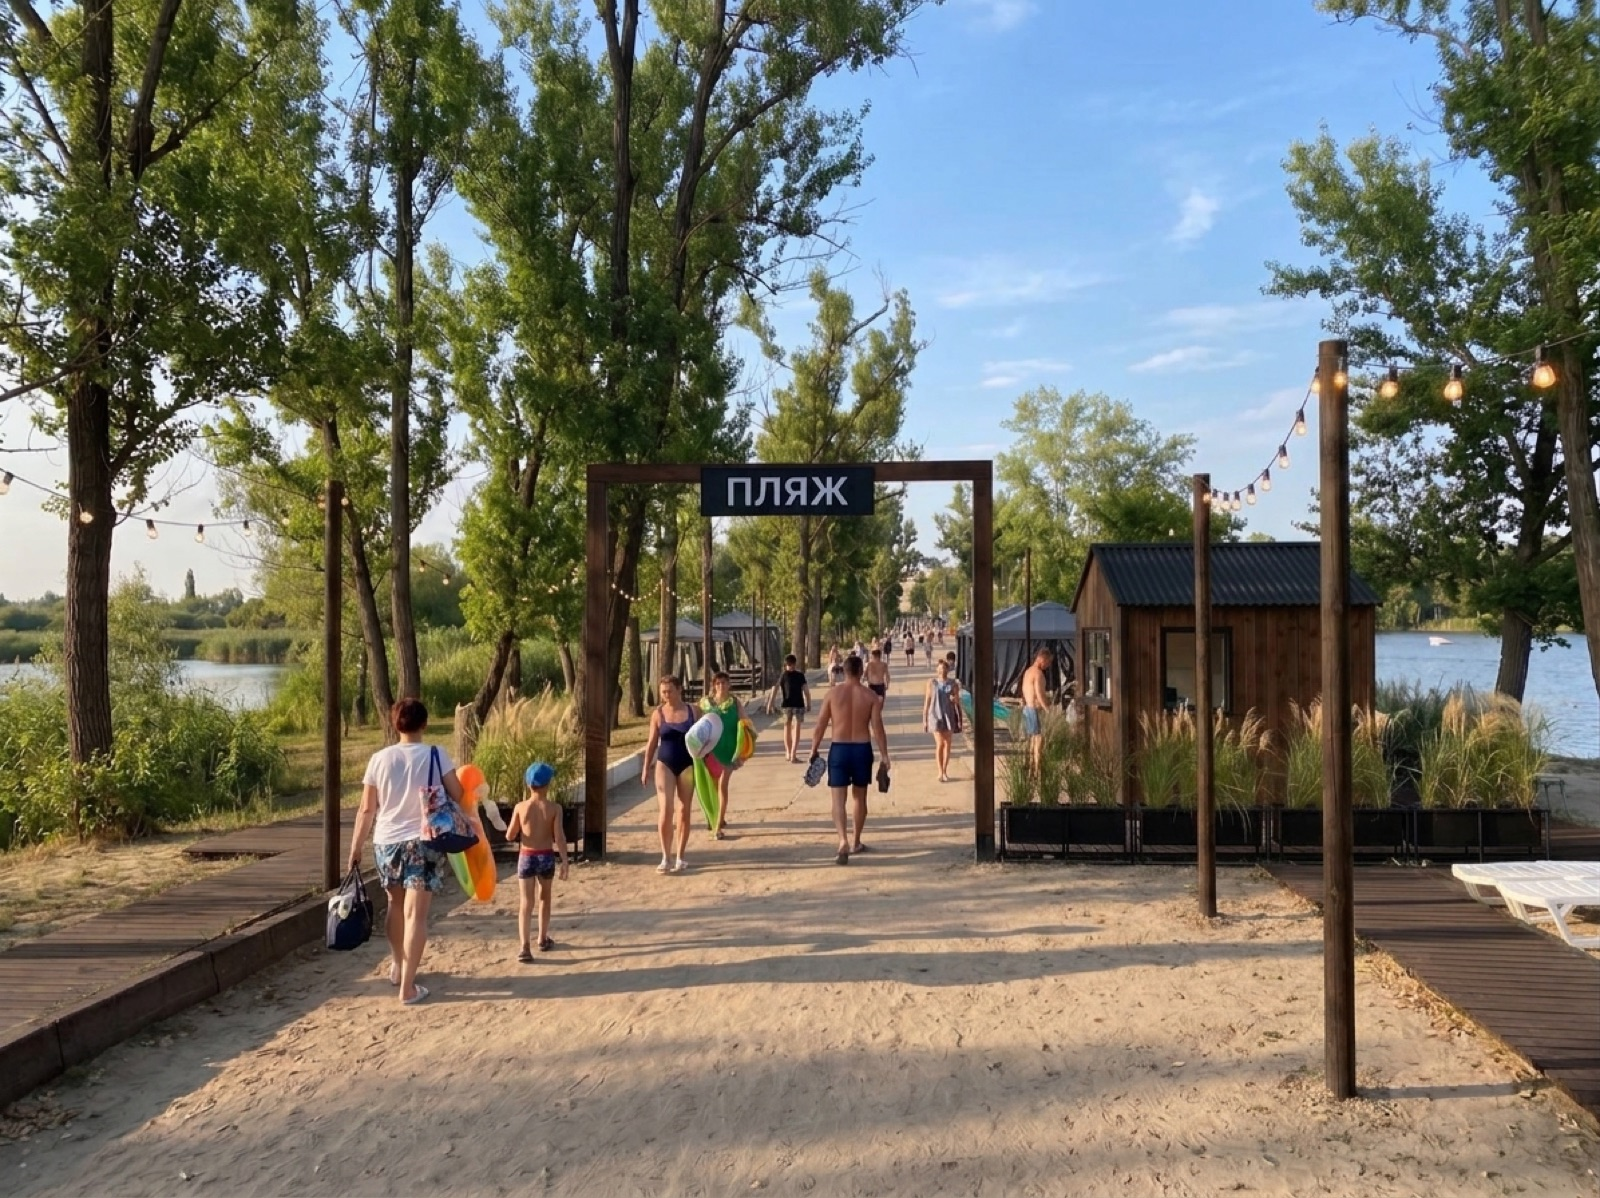
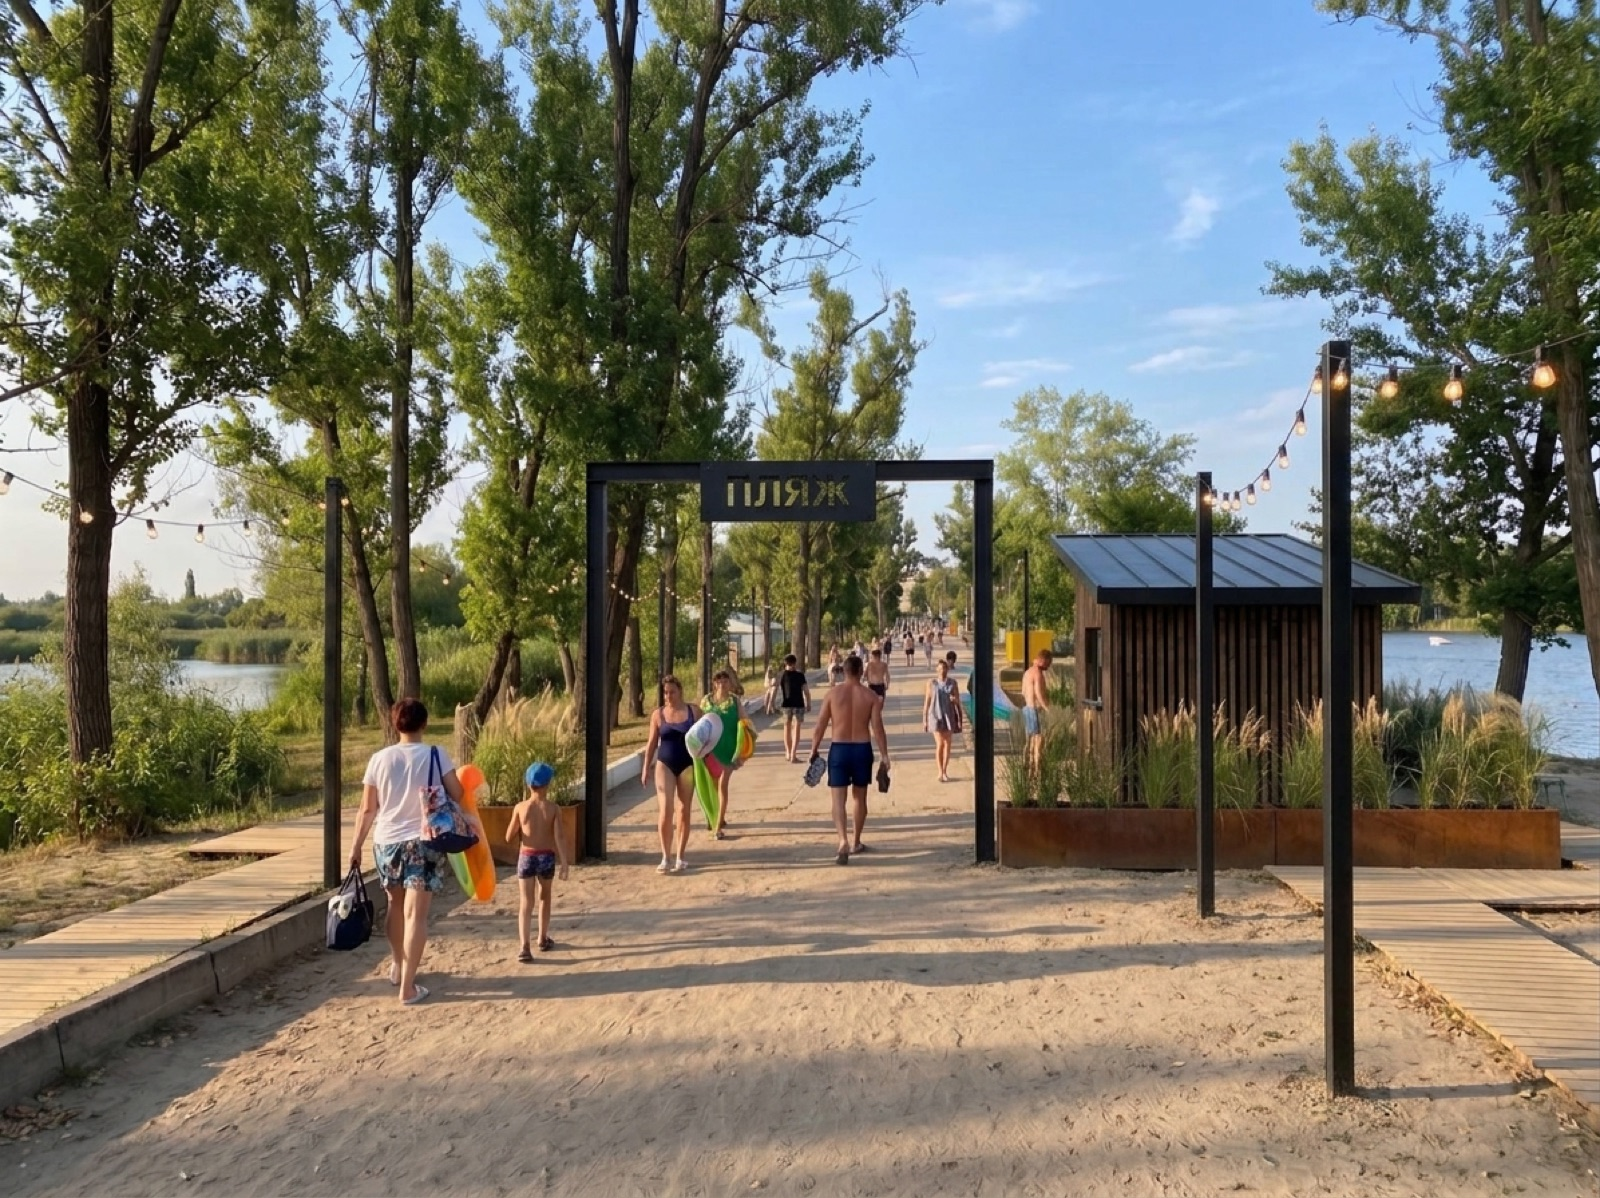
Пляж Основа: стиль «Лофт» перероблено (інша архітектура, не лише колір), описи стилів з розділом «Архітектура»

Changed region(s): [[0.2812, 0.278, 1.0, 0.9265], [0.0, 0.5868, 0.25, 0.9265], [0.1875, 0.4015, 0.2188, 0.5559]]

diff --git a/plyazh/proekt/index.html b/plyazh/proekt/index.html
@@ -528,7 +528,7 @@ body.cine-on #model,body.cine-on main,body.cine-on .wrap{transform:none !importa
       <div class="kicker">05 · Стиль</div>
       <h2 id="styleTitle">Горіх і графіт: виглядає дорожче, ніж коштує</h2>
       <p class="hint">Один стиль на всю територію, щоб місце читалось як єдине. Бюджет середній: прості матеріали, зібрані в один стиль, щоб виглядало охайно й дорожче, ніж коштує. Наша пропозиція позначена. Натисніть інший стиль: зміниться опис, палітра, 3D-модель вище і всі фото «Один день на пляжі» нижче.</p>
-      <div class="chips" id="styleChips"><button type="button" class="chip on" data-style="light">Горіх і графіт (пропозиція)</button><button type="button" class="chip" data-style="dark">Темне дерево і метал</button><button type="button" class="chip" data-style="red">Червоні дахи</button><button type="button" class="chip" data-style="log">Світлий зруб</button><button type="button" class="chip" data-style="white">Білий середземноморський</button><button type="button" class="chip" data-style="boho">Бохо</button></div>
+      <div class="chips" id="styleChips"><button type="button" class="chip on" data-style="light">Горіх і графіт (пропозиція)</button><button type="button" class="chip" data-style="dark">Лофт: темне дерево і метал</button><button type="button" class="chip" data-style="red">Хутір: червоні дахи</button><button type="button" class="chip" data-style="log">Карпатський зруб</button><button type="button" class="chip" data-style="white">Середземномор'я</button><button type="button" class="chip" data-style="boho">Бохо</button></div>
       <div class="swatches" id="styleSw"></div>
       <div class="grid2" id="styleCards"></div>
     </section>
@@ -766,22 +766,22 @@ document.querySelectorAll(".ba").forEach(el=>{
   el.addEventListener("pointerup",()=>on=false);el.addEventListener("pointercancel",()=>on=false);
 });
 </script>
-<script>window.STYLE_HAS={dark:['story'],red:['story']};</script>
+<script>window.STYLE_HAS={dark:['story']};</script>
 <script>
 (function(){
 var S={
- light:{sw:['#a8743f','#b98a55','#3b3f44','#f4f4f2','#2b2622'],m:'Наша пропозиція для беседок у межах середнього бюджету: та сама конструкція, що на вашому фото (брус з розкосами, борти, двосхилий дах), але каркас тонований під горіх, борти з горизонтальної дошки замість чорних панелей, дах з матового графітового профнастилу замість червоного. Виглядає дорожче, коштує так само.',t:'Білі пластикові лежаки і прості бежеві парасолі. Текстиль лише там, де видно: штори у VIP, подушки на лавах.',l:'Звичайні вуличні гірлянди з теплими лампами під дахами беседок і між деревами, кілька ліхтарів на сонячних батареях.',f:'Без парканів: кадки з травами, канат на дерев\'яних стовпчиках.'},
- dark:{sw:['#5a3e2b','#3b2a1f','#d9d4cc','#1c1c1e','#2a2a30'],m:'Темний горіх або морений дуб, чорний метал на каркасах і перилах, терасна дошка темного кольору.',t:'Сірий і графітовий льон, темні подушки з контрастним кантом.',l:'Точкові світильники, тепле світло з металевих ліхтарів.',f:'Низькі металеві огорожі з канатом, кадки з чорного металу.'},
- red:{sw:['#9c3b2b','#c9a373','#efe6d6','#5b4a3a','#8a2e22'],m:'Дерев\'яні каркаси, дахи альтанок і бару з червоного профнастилу або черепиці, як альтанки на набережній.',t:'Світлі тканини з теракотовими акцентами.',l:'Гірлянди під дахами, ліхтарі біля входів.',f:'Дерев\'яні стовпчики з канатом, клумби.'},
- log:{sw:['#e4c79a','#c99e64','#f3ead9','#6b4e2e','#a9784a'],m:'Світлий оциліндрований зруб для будиночків, бару і кабінок, як справжня база відпочинку.',t:'Лляні штори, пледи в клітинку, природні кольори.',l:'Ліхтарі на стовпах, гірлянди по фасадах зрубів.',f:'Дерев\'яний штахетник низький, кадки з хвоєю.'},
- white:{sw:['#ffffff','#eef3f6','#2f6f86','#c9a373','#9fc3d1'],m:'Білені дерев\'яні каркаси, біла фарбована дошка, сині акценти, як на Середземному морі.',t:'Білий льон, сині смужки, подушки в морському стилі.',l:'Білі гірлянди, ліхтарики у скляних банках.',f:'Білі кадки з лавандою й оливами.'},
- boho:{sw:['#d9b98e','#b5855a','#f2e6d0','#7a5a3a','#c97b50'],m:'Ротанг, бамбук, плетені абажури, світле дерево, багато текстур.',t:'Макраме, бахрома, подушки з орнаментом, килимки на піску.',l:'Плетені абажури, гірлянди-кульки, свічки в ліхтарях.',f:'Пампасна трава, кашпо з макраме, канати.'}
+ light:{sw:['#a8743f','#b98a55','#3b3f44','#f4f4f2','#2b2622'],m:'Наша пропозиція для беседок у межах середнього бюджету: та сама конструкція, що на вашому фото (брус з розкосами, борти, двосхилий дах), але каркас тонований під горіх, борти з горизонтальної дошки замість чорних панелей, дах з матового графітового профнастилу замість червоного. Виглядає дорожче, коштує так само.',t:'Білі пластикові лежаки і прості бежеві парасолі. Текстиль лише там, де видно: штори у VIP, подушки на лавах.',l:'Звичайні вуличні гірлянди з теплими лампами під дахами беседок і між деревами, кілька ліхтарів на сонячних батареях.',f:'Без парканів: кадки з травами, канат на дерев\'яних стовпчиках.',a:'Двосхилі дахи з графітового профнастилу, каркас з бруса з розкосами, борти з горизонтальної дошки.'},
+ dark:{sw:['#5a3e2b','#3b2a1f','#d9d4cc','#1c1c1e','#2a2a30'],m:'Чорний метал, морений дуб, вертикальні ламелі, кадки з кортен-сталі.',t:'Графітові квадратні парасолі, сірий брезент, темні подушки.',l:'Лампи Едісона на тросах, чорні сталеві ліхтарі.',f:'Сітка в чорній сталевій рамі, кадки з іржавої кортен-сталі зі злаками.',a:'Лофт: плоскі односхилі дахи з чорного металу, квадратні сталеві стійки без розкосів, вертикальні ламелі з проміжками.'},
+ red:{sw:['#9c3b2b','#c9a373','#efe6d6','#5b4a3a','#8a2e22'],m:'Світла сосна, червоний профнастил, білі різьблені лиштви.',t:'Червоно-білі смугасті парасолі з бахромою, лляні скатертини.',l:'Білі емальовані «хуторські» лампи, гірлянди.',f:'Низький білий штахетник, діжки з соняшниками.',a:'Хутір: високі двосхилі червоні дахи з білими лобовими дошками, світла соснова дошка, низький білий штахетник.'},
+ log:{sw:['#e4c79a','#c99e64','#f3ead9','#6b4e2e','#a9784a'],m:'Оциліндрована колода, гонт, грубі дошки столів і лав.',t:'Натуральний льон, пледи в клітинку.',l:'Ковані чорні ліхтарі, гірлянди під стріхою.',f:'Різьблені балясини, діжки з ялинками.',a:'Карпатський зруб: стіни з колод з перехрещеними кутами, круті A-подібні дахи з гонту, різьблені балясини.'},
+ white:{sw:['#ffffff','#eef3f6','#2f6f86','#c9a373','#9fc3d1'],m:'Біла штукатурка, сині дерев\'яні двері й віконниці, очеретяна пергола.',t:'Біло-сині смугасті тенти й парасолі.',l:'Білі ліхтарики, гірлянди над перголою.',f:'Білі канати на білих стовпчиках, теракотові горщики з оливами й лавандою.',a:'Середземномор\'я: білі тиньковані стіни з арками, плоскі дахи з очеретяною перголою, сині двері й віконниці.'},
+ boho:{sw:['#d9b98e','#b5855a','#f2e6d0','#7a5a3a','#c97b50'],m:'Світлі жердини, солома й очерет, ротанг.',t:'Кремова тканина з бахромою, макраме, килимки на настилах.',l:'Плетені абажури, гірлянди-кульки, свічки в ліхтарях.',f:'Джутові канати, пампасна трава в плетених кошиках.',a:'Бохо: солом\'яні та очеретяні дахи й парасолі-«палапа», каркас зі світлих жердин, макраме і плетені лампи.'}
 };
 var chips=document.querySelectorAll('#styleChips .chip'),sw=document.getElementById('styleSw'),cards=document.getElementById('styleCards');
 function show(k){var d=S[k];document.querySelectorAll('#styleChips .chip,#vizChips .chip').forEach(function(c){c.classList.toggle('on',c.dataset.style===k);}); var pal=document.querySelector('#viz .palette');if(pal)pal.style.display=k==='light'?'':'none';
  chips.forEach(function(c){if(c.dataset.style===k)document.getElementById('styleTitle').textContent=k==='light'?'Горіх і графіт: виглядає дорожче, ніж коштує':c.textContent;});
  sw.innerHTML=d.sw.map(function(c){return '<i style="background:'+c+'"></i>'}).join('');
- cards.innerHTML=[['Матеріали',d.m],['Тканини',d.t],['Вечірнє світло',d.l],['Огорожа',d.f]].map(function(x){return '<div class="card"><b>'+x[0]+'</b><p>'+x[1]+'</p></div>'}).join('');
+ cards.innerHTML=[['Архітектура',d.a],['Матеріали',d.m],['Тканини',d.t],['Вечірнє світло',d.l],['Огорожа',d.f]].map(function(x){return '<div class="card"><b>'+x[0]+'</b><p>'+x[1]+'</p></div>'}).join('');
  window.dispatchEvent(new CustomEvent('beachstyle',{detail:{style:k,sw:d.sw}}));
  var HAS=window.STYLE_HAS||{};function has(k,nm){var l=HAS[k]||[];return l.indexOf(nm)>=0||l.indexOf(nm.split('-')[0])>=0;}
  var tot=0,ok=0;document.querySelectorAll('#viz .step img, .bagrid img.after, .gal figure img').forEach(function(im){var nm=im.dataset.nm||(im.dataset.nm=((im.getAttribute('src')||'').match(/((?:story|gal)-\d+)\.jpg/)||[])[1]||'');if(!nm)return;tot++;var on=k!=='light'&&has(k,nm);if(on)ok++;var src=on?'foto/'+k+'/'+nm+'.jpg':'foto/'+nm+'.jpg';if(im.getAttribute('src')!==src){im.style.opacity=.35;im.onload=function(){im.style.opacity=1};im.setAttribute('src',src);var a=im.closest('a');if(a)a.setAttribute('href',src);}});
